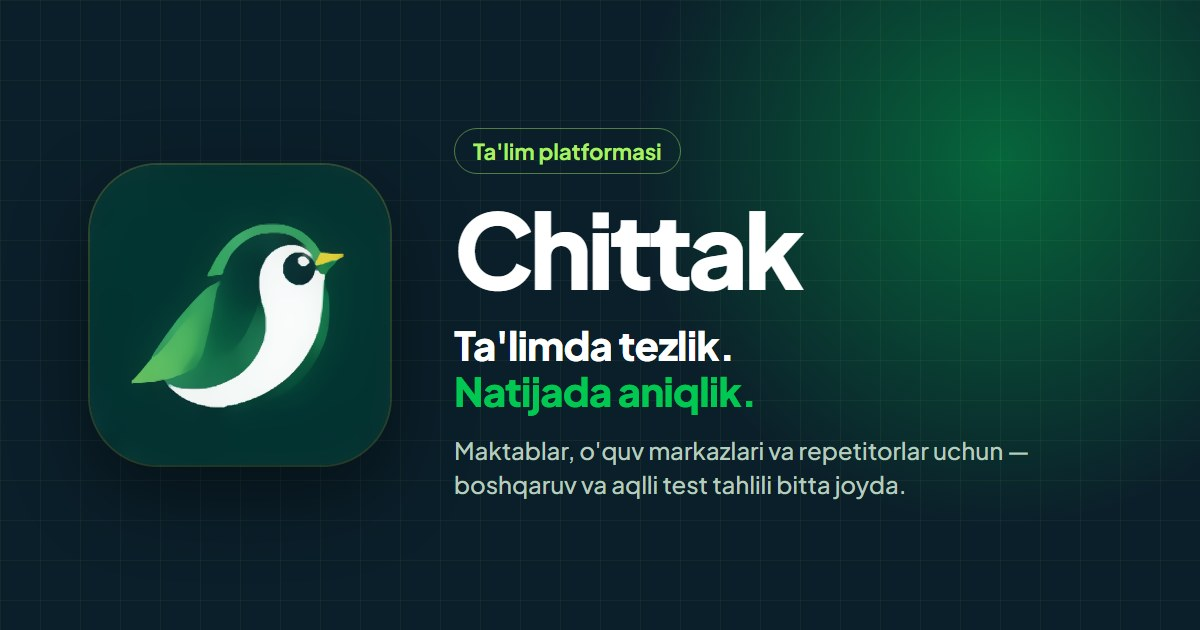
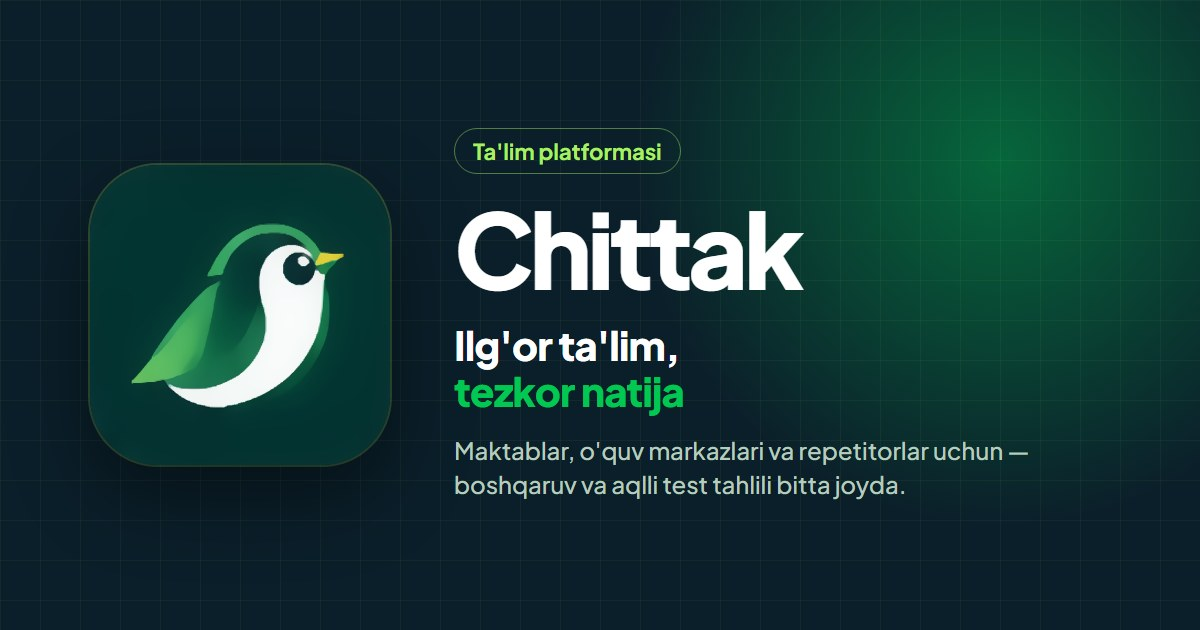
Yangi shior hamma joyda: "Ilg'or ta'lim, tezkor natija"
- Ochilish ekrani (Mini App va Android), sayt kirish sahifasi
- Havola ulashilganda chiqadigan sarlavha va rasm (og:image)
- Botning qisqa tavsifi

Changed region(s): [[0.37, 0.5127, 0.6167, 0.6635]]

diff --git a/frontend/index.html b/frontend/index.html
@@ -12,7 +12,7 @@
   <meta name="description" content="Maktablar, o'quv markazlari va repetitorlar uchun platforma: testlar, titul skaneri, natijalar tahlili va maktab CRM." />
   <meta property="og:type" content="website" />
   <meta property="og:site_name" content="Chittak" />
-  <meta property="og:title" content="Chittak — Ta'limda tezlik. Natijada aniqlik." />
+  <meta property="og:title" content="Chittak — Ilg'or ta'lim, tezkor natija" />
   <meta property="og:description" content="Maktablar, o'quv markazlari va repetitorlar uchun: testlar, titul skaneri, natijalar tahlili va maktab CRM — bitta joyda." />
   <meta property="og:image" content="/img/og-image.jpg" />
   <meta property="og:image:width" content="1200" />
@@ -79,7 +79,7 @@
   <div class="boot-splash" id="boot-splash" aria-label="Chittak yuklanmoqda">
     <img class="bird" src="/img/splash-bird.png" alt="" />
     <b>Chittak</b>
-    <small>Ta'limda tezlik.<br />Natijada aniqlik.</small>
+    <small>Ilg'or ta'lim,<br />tezkor natija</small>
     <svg class="waves" viewBox="0 0 420 260" aria-hidden="true">
       <defs>
         <linearGradient id="boot-w1" x1="0" y1="0" x2="1" y2="1"><stop offset="0" stop-color="#0E6B45" /><stop offset="1" stop-color="#0A5A3B" /></linearGradient>

diff --git a/mobile/lib/main.dart b/mobile/lib/main.dart
@@ -342,7 +342,7 @@ class _SplashViewState extends State<_SplashView> with TickerProviderStateMixin 
                 rise(
                   slogan,
                   const Text(
-                    "Ta'limda tezlik.\nNatijada aniqlik.",
+                    "Ilg'or ta'lim,\ntezkor natija",
                     textAlign: TextAlign.center,
                     style: TextStyle(color: Color(0xFF3EDC7E), fontSize: 19, fontWeight: FontWeight.w700, height: 1.3),
                   ),

diff --git a/frontend/js/app.js b/frontend/js/app.js
@@ -12017,7 +12017,7 @@ function renderWebLogin(errorText = "") {
       <div class="web-login-brand">
         <div class="web-logo">${WEB_LOGO}</div>
         <h1>Chittak</h1>
-        <p>Ta'limda tezlik. Natijada aniqlik.</p>
+        <p>Ilg'or ta'lim, tezkor natija</p>
       </div>
       <div class="web-login-card" id="web-login-card">
         <h2>Kirish</h2>

diff --git a/bot/bot.py b/bot/bot.py
@@ -698,7 +698,7 @@ async def _setup_menu_button() -> None:
 # Bot profili (brend): nom, bo'sh chatdagi tavsif va profil/ulashishdagi qisqa tavsif.
 # Avatar Bot API orqali o'rnatilmaydi — uni @BotFather'da /setuserpic bilan qo'yiladi.
 BOT_NAME = "Chittak"
-BOT_SHORT_DESCRIPTION = "Ta'limda tezlik. Natijada aniqlik. Maktab CRM, titul testlarini skanerlash va natijalar tahlili."
+BOT_SHORT_DESCRIPTION = "Ilg'or ta'lim, tezkor natija. Maktab CRM, titul testlarini skanerlash va natijalar tahlili."
 BOT_DESCRIPTION = (
     "Chittak — maktablar, o'quv markazlari va repetitorlar uchun platforma.\n\n"
     "• Testlarni yarating va titul varaqlarini telefon kamerasi bilan tekshiring\n"
